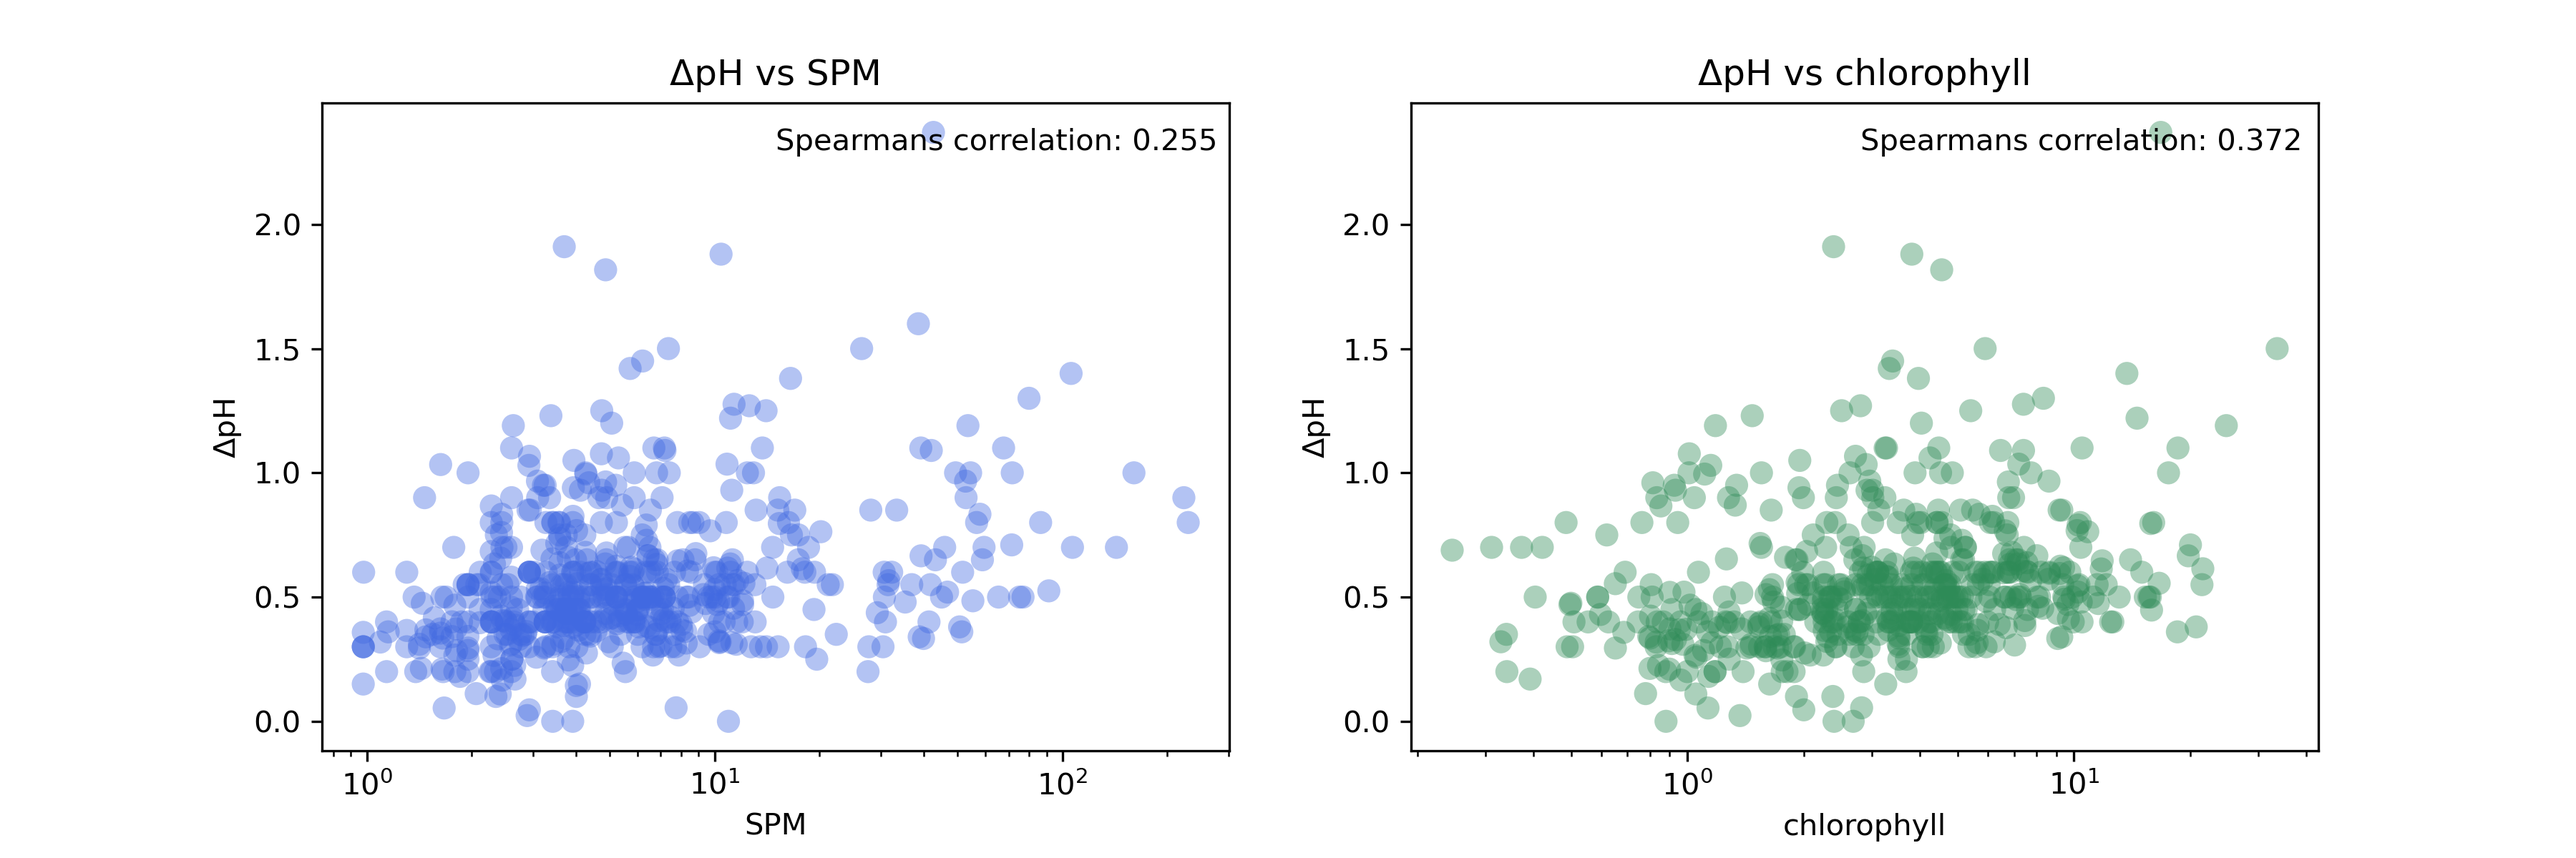
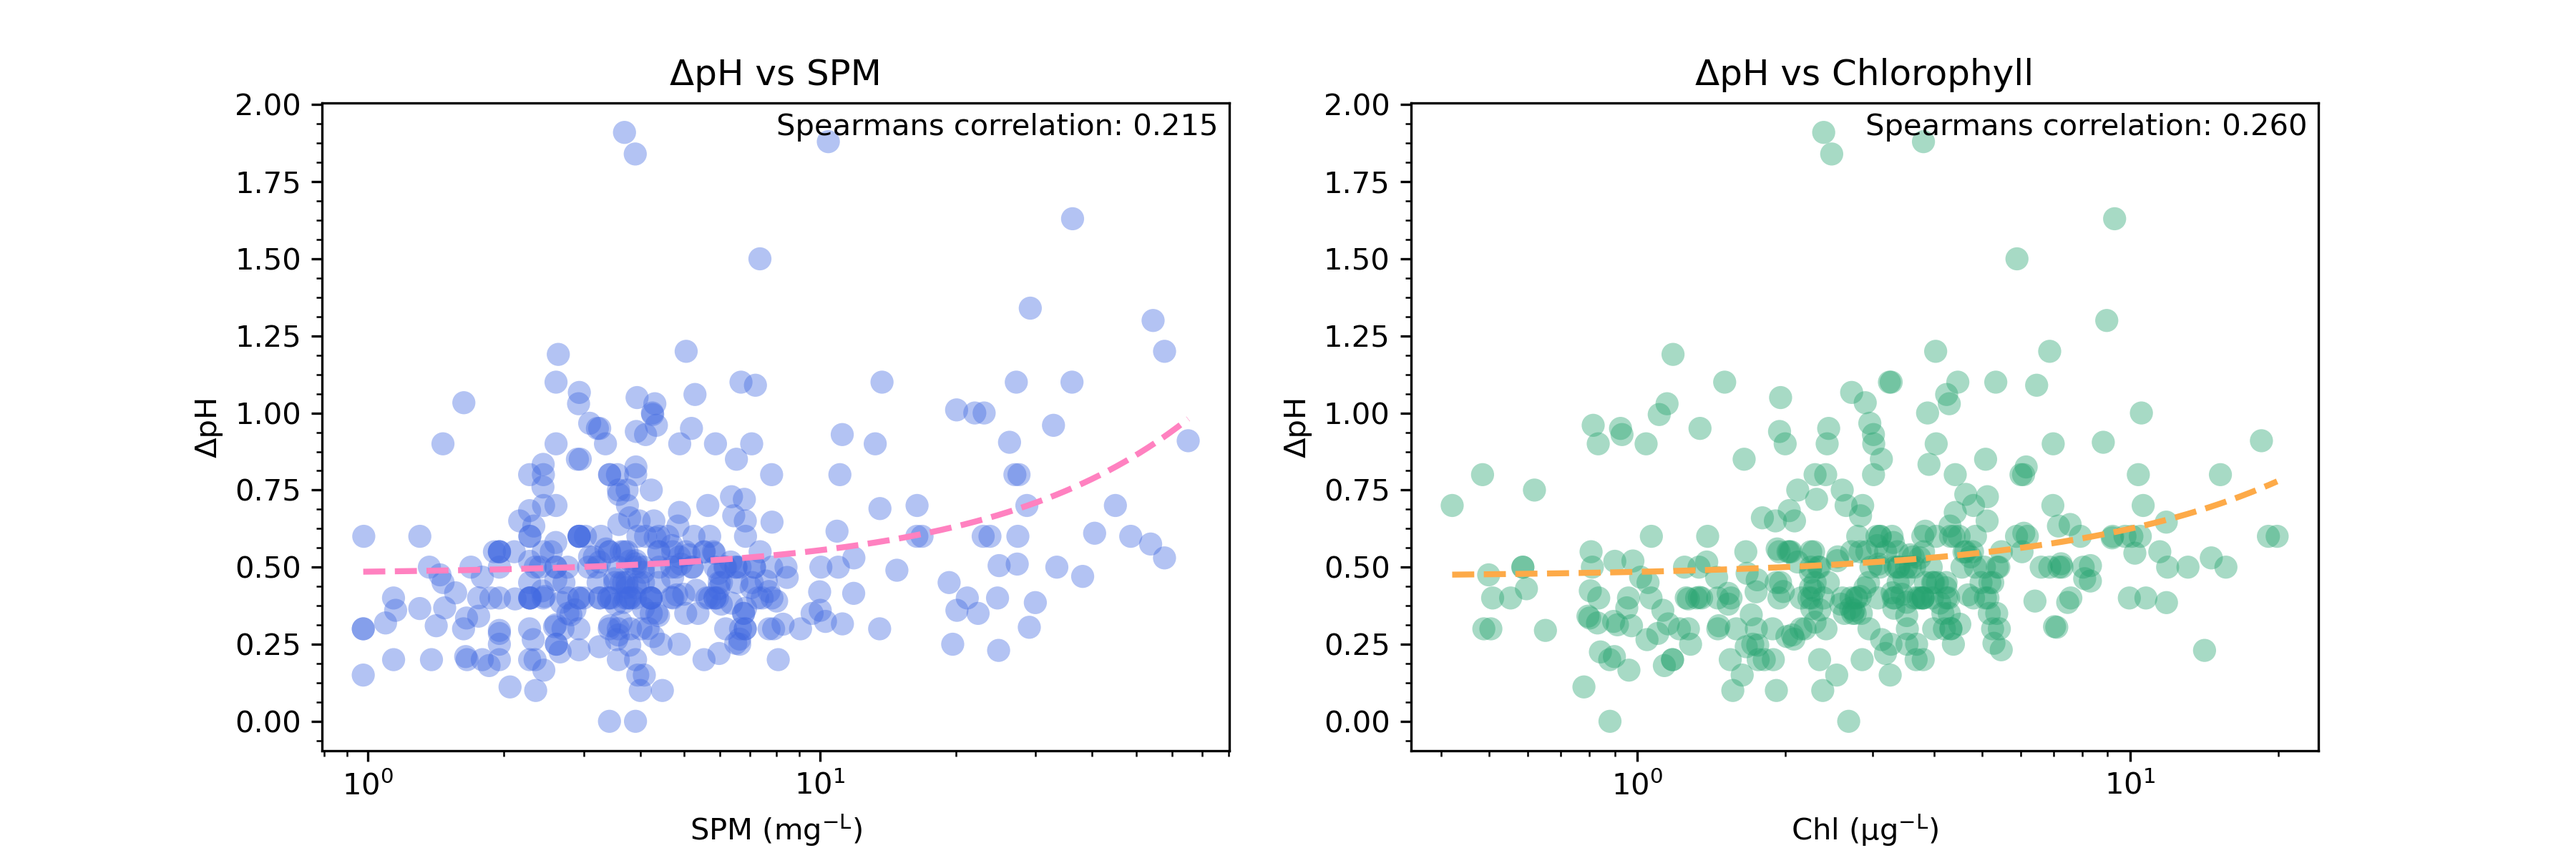
update

diff --git a/dpH, chlorophyll & spm/dpH_chlor_spm.py b/dpH, chlorophyll & spm/dpH_chlor_spm.py
@@ -2,63 +2,50 @@ import pandas as pd
 import pyarrow.parquet as pq
 from matplotlib import pyplot as plt
 import numpy as np
-from datetime import datetime
-from scipy import interpolate, stats
-from scipy.stats.stats import pearsonr, spearmanr
+from scipy import stats
+from scipy.stats.stats import spearmanr
 import matplotlib.dates as mdates
+from matplotlib.ticker import (AutoMinorLocator)
 
-northsea = pd.read_csv(
-    "C:/Users/hanna/Documents/GitHub/pH-North-Sea/Maps/data/coordinates_stations.csv")
+
+fpath = "C:/Users/hanna/Documents/GitHub/"
 
 #%%
 #Create list
 data = []
 
+#Create figure
+fig, (ax1, ax2) = plt.subplots(figsize = (12, 4), ncols=2,  dpi=300)
+
 #List of stations without a negative seasonal correlation between spm & chlorophyll
 stationcodes = [
-    'ZUIDOLWNOT',
-    'EILDBG',
-    'HOLWDBG',
-    'WESTMP',
-    'VLIESZD',
-    'MALZN',
-    'ROTTMPT20',
-    'ROTTMPT30',
-    'TERSLG10',
-    'TERSLG30',
-    'TERSLG50',
-    'TERSLG70',
-    'TERSLG100',
-    'TERSLG135',
-    'TERSLG175',
-    'CALLOG10',
-    'CALLOG50',
-    'EGMAZE4',
+    'CALLOG30',
+    'DOOVBWT',
     'EGMAZE10',
     'EGMAZE20',
     'EGMAZE30',
     'EGMAZE50',
-    'EGMAZE70',
-    'NOORDWK4',
-    'NOORDWK10',
+    'GOERE30',
+    'GOERE70',
     'NOORDWK20',
     'NOORDWK30',
     'NOORDWK50',
     'NOORDWK70',
-    'TERHDE70',
-    'GOERE6',
-    'GOERE30',
-    'GOERE70',
-    'SCHOUWN30',
+    'ROTTMPT20',
+    'ROTTMPT30',
     'SCHOUWN70',
-    'WALCRN20',
-    'WALCRN50'
-    ]
+    'TERHDE70',
+    'TERSLG30',
+    'TERSLG70',
+    'TERSLG100',
+    'TERSLG135',
+    'WALCRN50',
+    'WALCRN70']
+
 #Loop through station data files
-for stationcode in stationcodes:
-#for stationcode in northsea.station_code:    
+for stationcode in stationcodes:    
     #Read station specific files
-    filename = "C:/Users/hanna/Documents/GitHub/rws-the-olden-days/data/x13/"+ stationcode + ".parquet"
+    filename = fpath + "rws-the-olden-days/data/x13/"+ stationcode + ".parquet"
     df = pq.read_table(source=filename).to_pandas()
     
     #Create datetime column
@@ -89,91 +76,53 @@ for stationcode in stationcodes:
         #Compile data into list
         data.append((stationcode, year, dpH, spm_avg, chlorophyll_avg))
 
-            
-            # #Plotting against chlorophyll
-            # ax2 = ax.twinx()
-            # ax2.scatter(dpH, df_L_year.chlorophyll, s=60, 
-            #             marker='x', c='seagreen', label = 'Chlorophyll')
-            
-            
-            #Add linear regressions for SPM & Chlorophyll
-            # L_spm = ~np.isnan(df_L_year.spm)
-            # slope, intercept, rv, pv, se = stats.linregress(dpH, df_L_year.spm[L_spm])
-            # ax.plot(dpH, intercept + slope * dpH,
-            #         c='royalblue', label='Linear regression SPM')
-    
-            # L_chlorophyll = ~np.isnan(df_L_year.chlorophyll)
-            # slope2, intercept2, rv2, pv2, se2 = stats.linregress(dpH, df_L_year.chlorophyll[L_chlorophyll])
-            # ax2.plot(dpH, intercept2 + slope2 * dpH,
-            #         c='seagreen', label='Linear regression Chlorophyll')
-            
-            #Pearson 
-            # L_pearson = df_L_year.spm.notnull()
-            # df_L_pearson = df_L_year.spm[L_pearson]
-            # dpH_pearson = np.linspace(min_pH, max_pH, num = len(df_L_pearson))
-            # pearson_coef, p_value = stats.pearsonr(dpH_pearson, df_L_pearson)
-            # ax.text(0, 0, f"Pearson coefficient = {pearson_coef}")
-            
-            #Formatting
-            # ax.set_title(f"{stationcode} {year}")
-            # ax.set_xlabel('\u0394' + 'pH')
-            # ax.set_ylabel('SPM')
-            # ax2.set_ylabel('Chlorophyll')
-            # fig.legend(loc='upper right', bbox_to_anchor=(1.25, 0.55))
-           
-            #Saving
-            #plt.savefig(f"figures/{stationcode} {year}.png")
-
 #Compile all data into one dataframe
 df2 = pd.DataFrame(data, columns = ['station', 'year', 'dpH', 'spm', 'chlorophyll'])
 
-#%%
-#Plot all spm vs dpH data
-fig, (ax1, ax2) = plt.subplots(figsize = (12, 4), ncols=2,  dpi=300)
+#%% SPM
 ax1.scatter(df2.spm, df2.dpH, s=60, marker='o', c='royalblue', alpha=0.4, edgecolor='none')
 
-#Pearson 
-L_pearson = df2.spm.notnull()
-df2_L_pearson = df2.spm[L_pearson]
-dpH_pearson = np.linspace(df2.dpH.min(), df2.dpH.max(), num = len(df2_L_pearson))
-# pearson_coef, p_value = stats.pearsonr(dpH_pearson, df2_L_pearson)
-# ax.text(30, 0, f"Pearson coefficient = {pearson_coef}")
-           
-# Spearman
-corr, _ = spearmanr(dpH_pearson, df2_L_pearson)
-ax1.set_xscale("log")
-ax1.text(15, 2.3, 'Spearmans correlation: %.3f' % corr)
+#Spearman
+L = ~np.isnan(df2.spm) & ~np.isnan(df2.dpH)
+df2_pH = df2.dpH[L]
+df2_spm = df2.spm[L]
+corr, _ = spearmanr(df2_pH, df2_spm)
+
+# Linear regression
+slope, intercept, rv, pv, se = stats.linregress(df2_spm, df2_pH)
+spm_interp = np.linspace(np.min(df2_spm), np.max(df2_spm), num=500)
+ax1.plot(spm_interp, intercept + slope * spm_interp, 
+         c='xkcd:pink', linestyle='--', linewidth=2)
  
 #Formatting
+ax1.set_xscale("log")
+ax1.yaxis.set_minor_locator(AutoMinorLocator(4))
+ax1.text(8, 1.9, 'Spearmans correlation: %.3f' % corr)
 ax1.set_title('\u0394' + 'pH vs SPM')
-ax1.set_xlabel('SPM')
+ax1.set_xlabel('SPM ($\mathregular{mg^{-L}}$)')
 ax1.set_ylabel('\u0394' + 'pH')
-#fig.legend(loc='upper right', bbox_to_anchor=(1.25, 0.55))
-   
-#Saving
-#plt.savefig("figures/dpH vs spm not all stations per year.png")
 
+#%% Chlorophyll
+ax2.scatter(df2.chlorophyll, df2.dpH, s=60, marker='o', c='xkcd:teal green', alpha=0.4, edgecolor='none')
 
-#Plot all chlorophyll vs dpH data
-ax2.scatter(df2.chlorophyll, df2.dpH, s=60, marker='o', c='seagreen', alpha=0.4, edgecolor='none')
+#Spearman
+L = ~np.isnan(df2.chlorophyll) & ~np.isnan(df2.dpH)
+df2_pH = df2.dpH[L]
+df2_chlor = df2.chlorophyll[L]
+corr, _ = spearmanr(df2_pH, df2_chlor)
 
-#Pearson 
-L_pearson = df2.chlorophyll.notnull()
-df2_L_pearson = df2.chlorophyll[L_pearson]
-dpH_pearson = np.linspace(df2.dpH.min(), df2.dpH.max(), num = len(df2_L_pearson))
-# pearson_coef, p_value = stats.pearsonr(dpH_pearson, df2_L_pearson)
-# ax.text(10, 0, f"Pearson coefficient = {pearson_coef}")
-
-# Spearman
-corr, _ = spearmanr(dpH_pearson, df2_L_pearson)
-ax2.set_xscale("log")
-ax2.text(2.8, 2.3, 'Spearmans correlation: %.3f' % corr)
+# Linear regression
+slope, intercept, rv, pv, se = stats.linregress(df2_chlor, df2_pH)
+chlor_interp = np.linspace(np.min(df2_chlor), np.max(df2_chlor), num=500)
+ax2.plot(chlor_interp, intercept + slope * chlor_interp, 
+         c='xkcd:light orange', linestyle='--', linewidth=2)
 
 #Formatting
-ax2.set_title('\u0394' + 'pH vs chlorophyll')
-ax2.set_xlabel('chlorophyll')
-ax2.set_ylabel('\u0394' + 'pH')
-#fig.legend(loc='upper right', bbox_to_anchor=(1.25, 0.55))
-   
-#Saving
+ax2.set_xscale("log")
+ax2.yaxis.set_minor_locator(AutoMinorLocator(4))
+ax2.text(2.9, 1.9, 'Spearmans correlation: %.3f' % corr)
+ax2.set_title('\u0394' + 'pH vs Chlorophyll')
+ax2.set_xlabel('Chl (\u03BC$\mathregular{g^{-L}}$)')
+ax2.set_ylabel('\u0394' + 'pH') 
+#%% Save
 plt.savefig("figures/dpH vs chlorophyll BOTH.png")

diff --git a/Scatter_pH_methods.py b/Scatter_pH_methods.py
@@ -2,7 +2,7 @@ import pandas as pd
 from matplotlib import pyplot as plt
 import numpy as np
 import matplotlib.dates as mdates
-from scipy import interpolate
+from matplotlib.ticker import (AutoMinorLocator)
 
 rws_file = 'C:/Users/hanna/Documents/GitHub/rws-the-olden-days/data/old_rws_data/rws_compilation.parquet'
 rws_all = pd.read_parquet(rws_file, engine='auto')
@@ -77,7 +77,6 @@ L6 = (gmL_x > mdates.datestr2num('2013-01-01')) & (gmL_x < mdates.datestr2num('2
 L7 = (gmL_x > mdates.datestr2num('2018-01-01')) & (gmL_x < mdates.datestr2num('2021-01-01'))
 
 fig, ax = plt.subplots(dpi=300, figsize=(8,2))
-
 ax.scatter(gmL_x[L1].index, gmL_y[L1],
            alpha=0.5, s=40, c='royalblue', edgecolor='none')
 ax.scatter(gmL_x[L2].index, gmL_y[L2],
@@ -95,9 +94,11 @@ ax.scatter(gmL_x[L7].index, gmL_y[L7],
 ax.set_yticks
 ax.set_xlabel('Year')
 ax.set_ylabel('pH')
-ax.minorticks_on()
+ax.xaxis.set_minor_locator(AutoMinorLocator(5))
+ax.yaxis.set_minor_locator(AutoMinorLocator(5))
 ax.set_axisbelow(True)
 ax.grid(axis='both')
 ax.grid(axis='both', which='minor', linestyle=':', linewidth='0.5')
+ax.set_xlim(gmL_x.min()-150, gmL_x.max()+150)
 
-ax.set_title('pH measurements North Sea')
+ax.set_title('Monthly average pH measurements Dutch Coastal Zone')

diff --git a/Spearman_correlation_numbers.py b/Spearman_correlation_numbers.py
@@ -1,7 +1,5 @@
 import numpy as np
 import pyarrow.parquet as pq
-from matplotlib import pyplot as plt
-from scipy import stats
 import pandas as pd
 from scipy.stats.stats import spearmanr
 
@@ -11,7 +9,7 @@ northsea = pd.read_csv(
 #CHOOSE VARIABLES
 #(+ _irregular, _seasonal or _trend, or datenum for time)
 var1 = "pH_seasonal"
-var2 = "nitrxte_seasonal"
+var2 = "spm_seasonal"
 
 station = []
 correlation = []
@@ -22,19 +20,18 @@ for stationcode in northsea.station_code:
     df = pq.read_table(source=filename).to_pandas()
 
     L = ~np.isnan(df[var1]) & ~np.isnan(df[var2])    
-    pH = df[var1][L]
-    P = df[var2][L]
+    _var1 = df[var1][L]
+    _var2 = df[var2][L]
     
-    corr, _ = spearmanr(pH, P)
+    corr, _ = spearmanr(_var1, _var2)
     corr = "%.1f" % corr
-    #ax.text(3.5, 0, 'Spearmans correlation: %.3f' % corr)
-
+    
     station.append(stationcode)
     correlation.append(corr)
-    #L = (~np.isnan(correlation))
-    #correlation = [int(float(i)) for i in correlation]
-    
 
 for i in range(60):
     corrdict[station[i]] = correlation[i]
+    
+data = list(corrdict. items())
+corr_array = np.array(data)
 
